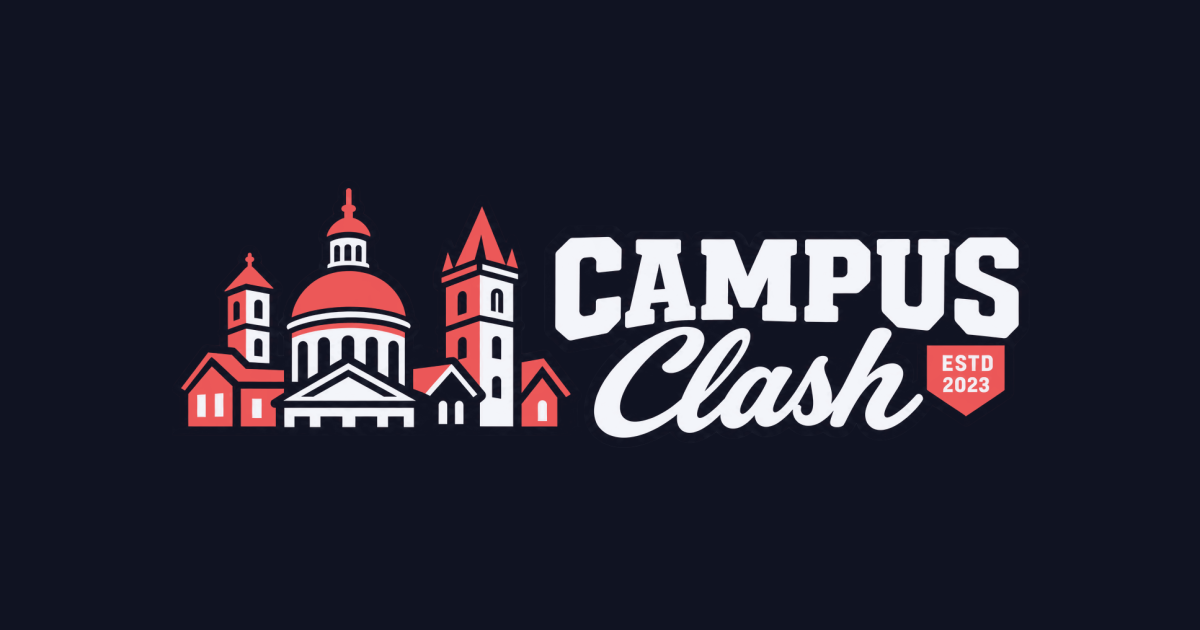
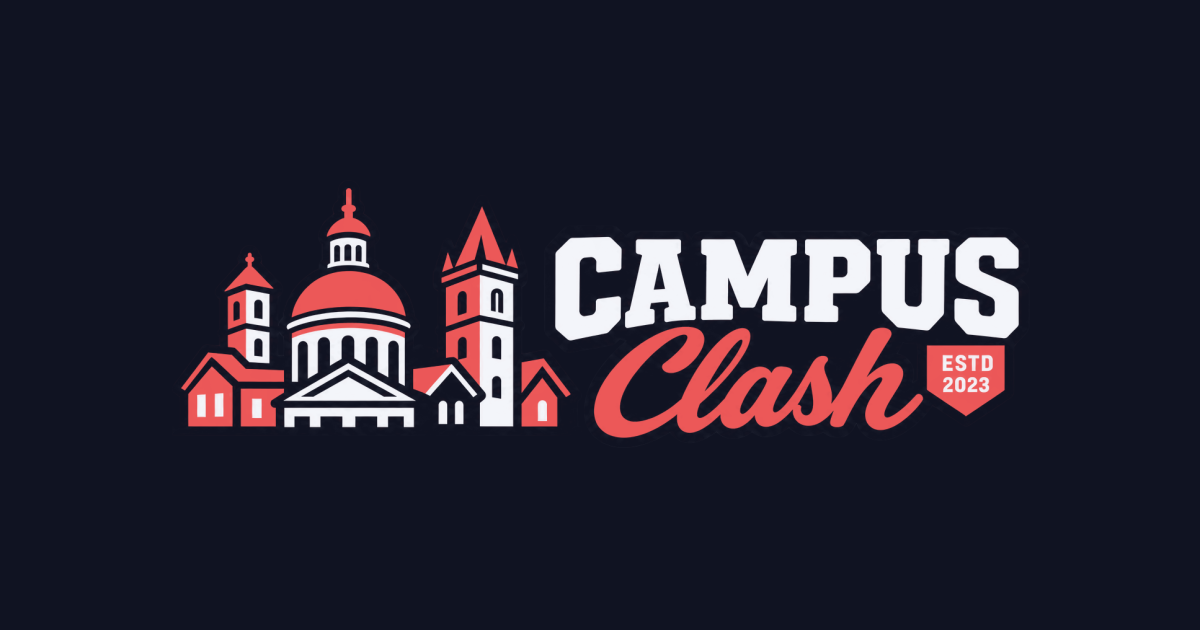
Put the share image's Clash in brand red
The lockup arrived with a cream script, which disagreed with the navbar --
CAMPUS cream, Clash in --cc-accent, keyline punched in the background colour.
Match it, so a shared link and the app read as the same wordmark.

Done as a region-scoped recolour rather than a redraw: the script is a single
connected component in the alpha channel, so its pixels get red RGB with alpha
untouched and the antialiasing survives intact. Cream master kept alongside.

Add make_og.py so the share image stops being assembled by hand. It composites
the knocked-out lockup onto the page navy BEFORE downscaling -- resampling
straight RGBA pulls the transparent background into edge pixels and fringes
every letter.

Changed region(s): [[0.4933, 0.5127, 0.7708, 0.6937]]

diff --git a/design/tools/make_og.py b/design/tools/make_og.py
@@ -1,0 +1,72 @@
+#!/usr/bin/env python3
+"""Build the 1200x630 social share image from a horizontal lockup master.
+
+    python3 design/tools/make_og.py design/brand/<lockup>.png images/campus-clash-og.png
+
+The lockup arrives with its navy knocked out to transparency, so it is
+composited onto the page navy BEFORE downscaling -- resampling straight RGBA
+would pull the transparent background into the edge pixels and fringe every
+letter. Area-average downscale, then centred on the canvas.
+"""
+import sys, os
+sys.path.insert(0, os.path.dirname(os.path.abspath(__file__)))
+import pngio, remap
+
+W, H = 1200, 630            # the size every unfurler expects
+LOCKUP_W = 880              # ~73% of canvas width: reads at preview scale
+NAVY = (0x10, 0x13, 0x22)   # --cc-bg
+
+
+def resize(rows, tw, th):
+    """Area-average downscale. Input must be opaque."""
+    sh, sw = len(rows), len(rows[0])
+    out = []
+    for y in range(th):
+        y0, y1 = y * sh / th, (y + 1) * sh / th
+        iy0, iy1 = int(y0), min(sh, int(y1 - 1e-9) + 1)
+        line = []
+        for x in range(tw):
+            x0, x1 = x * sw / tw, (x + 1) * sw / tw
+            ix0, ix1 = int(x0), min(sw, int(x1 - 1e-9) + 1)
+            acc = [0.0, 0.0, 0.0]
+            tot = 0.0
+            for sy in range(iy0, iy1):
+                wy = min(sy + 1, y1) - max(sy, y0)
+                if wy <= 0:
+                    continue
+                srow = rows[sy]
+                for sx in range(ix0, ix1):
+                    wx = min(sx + 1, x1) - max(sx, x0)
+                    if wx <= 0:
+                        continue
+                    w = wx * wy
+                    p = srow[sx]
+                    acc[0] += p[0] * w
+                    acc[1] += p[1] * w
+                    acc[2] += p[2] * w
+                    tot += w
+            line.append(tuple(int(round(c / tot)) for c in acc) + (255,))
+        out.append(line)
+    return out
+
+
+def build(src, dst):
+    w, h, art = pngio.read_png(src)
+    tw = LOCKUP_W
+    th = round(h * tw / w)
+    small = resize(remap.flatten(art, NAVY), tw, th)
+
+    canvas = [[(NAVY[0], NAVY[1], NAVY[2], 255)] * W for _ in range(H)]
+    ox, oy = (W - tw) // 2, (H - th) // 2
+    for y, row in enumerate(small):
+        canvas[oy + y][ox:ox + tw] = row
+    pngio.write_png(dst, canvas)
+    return tw, th, ox, oy
+
+
+if __name__ == '__main__':
+    if len(sys.argv) != 3:
+        sys.exit(__doc__)
+    tw, th, ox, oy = build(sys.argv[1], sys.argv[2])
+    print('%s -> %s  (%dx%d canvas, lockup %dx%d at %d,%d)'
+          % (sys.argv[1], sys.argv[2], W, H, tw, th, ox, oy))
